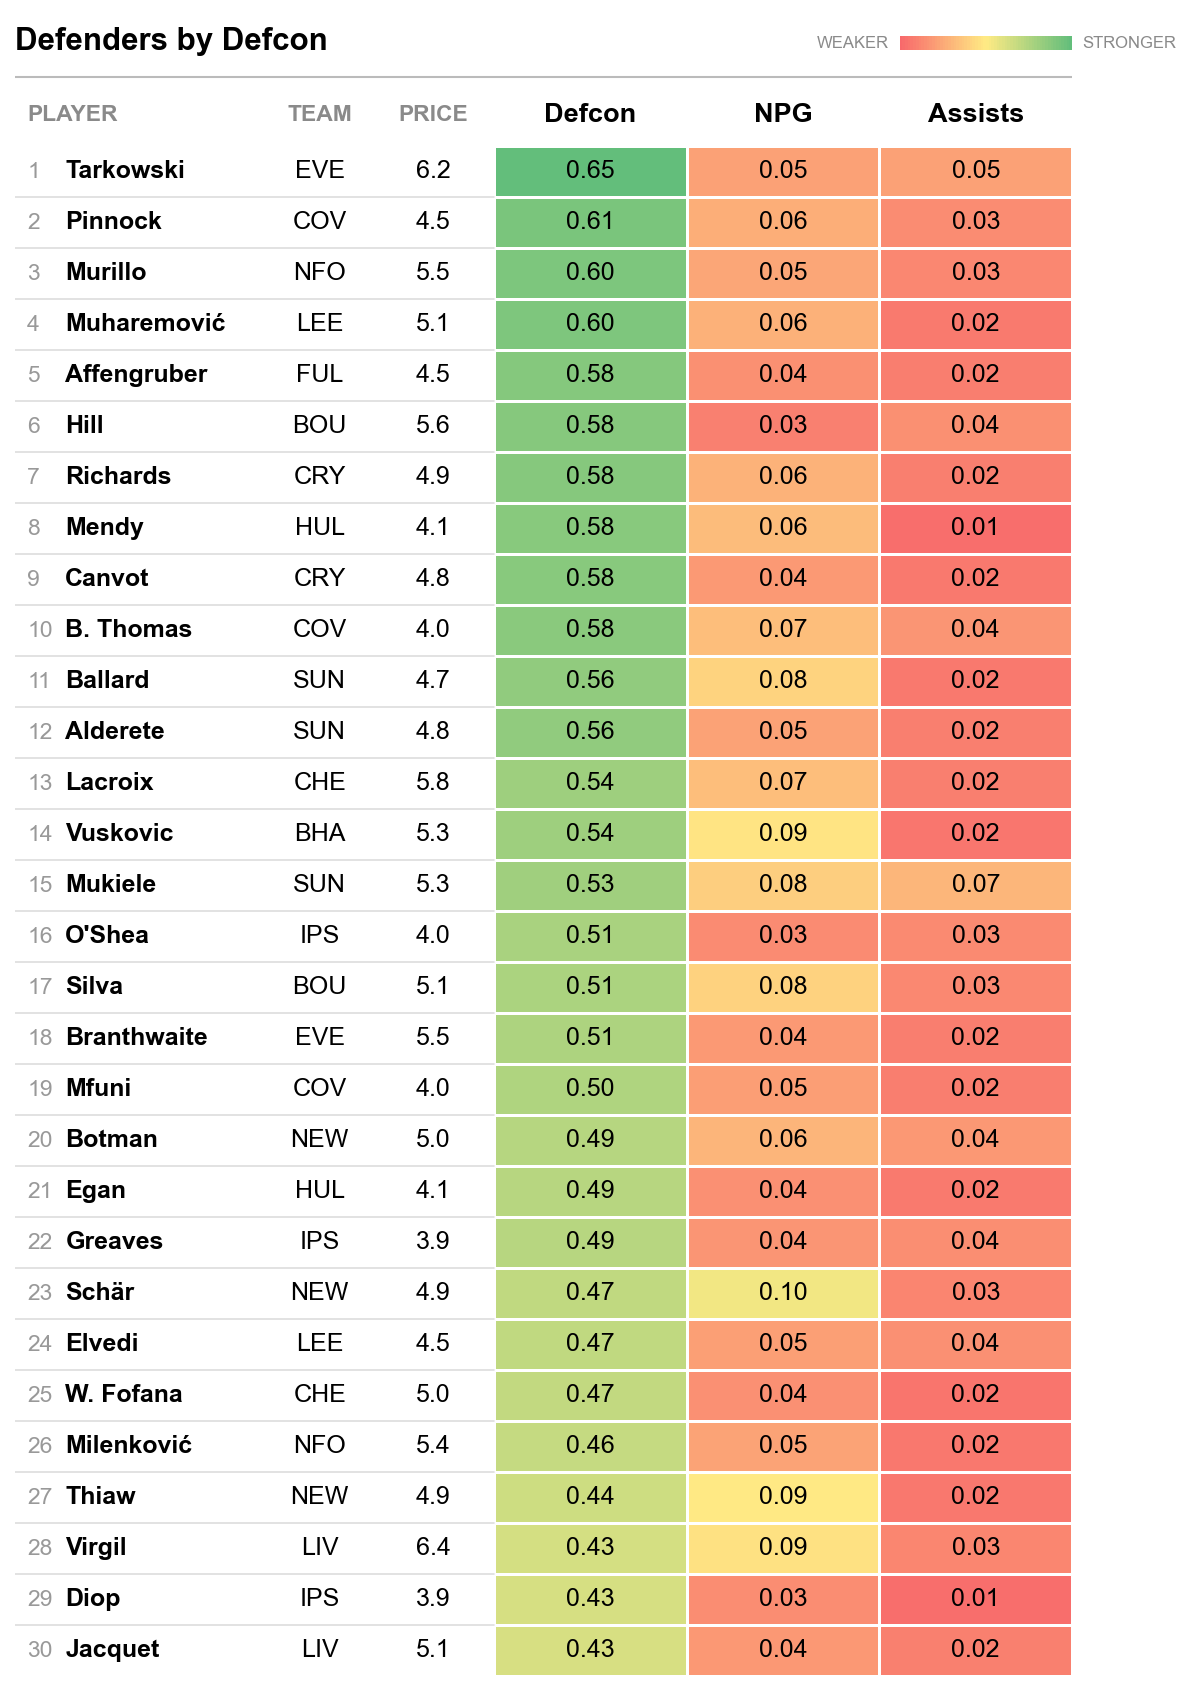
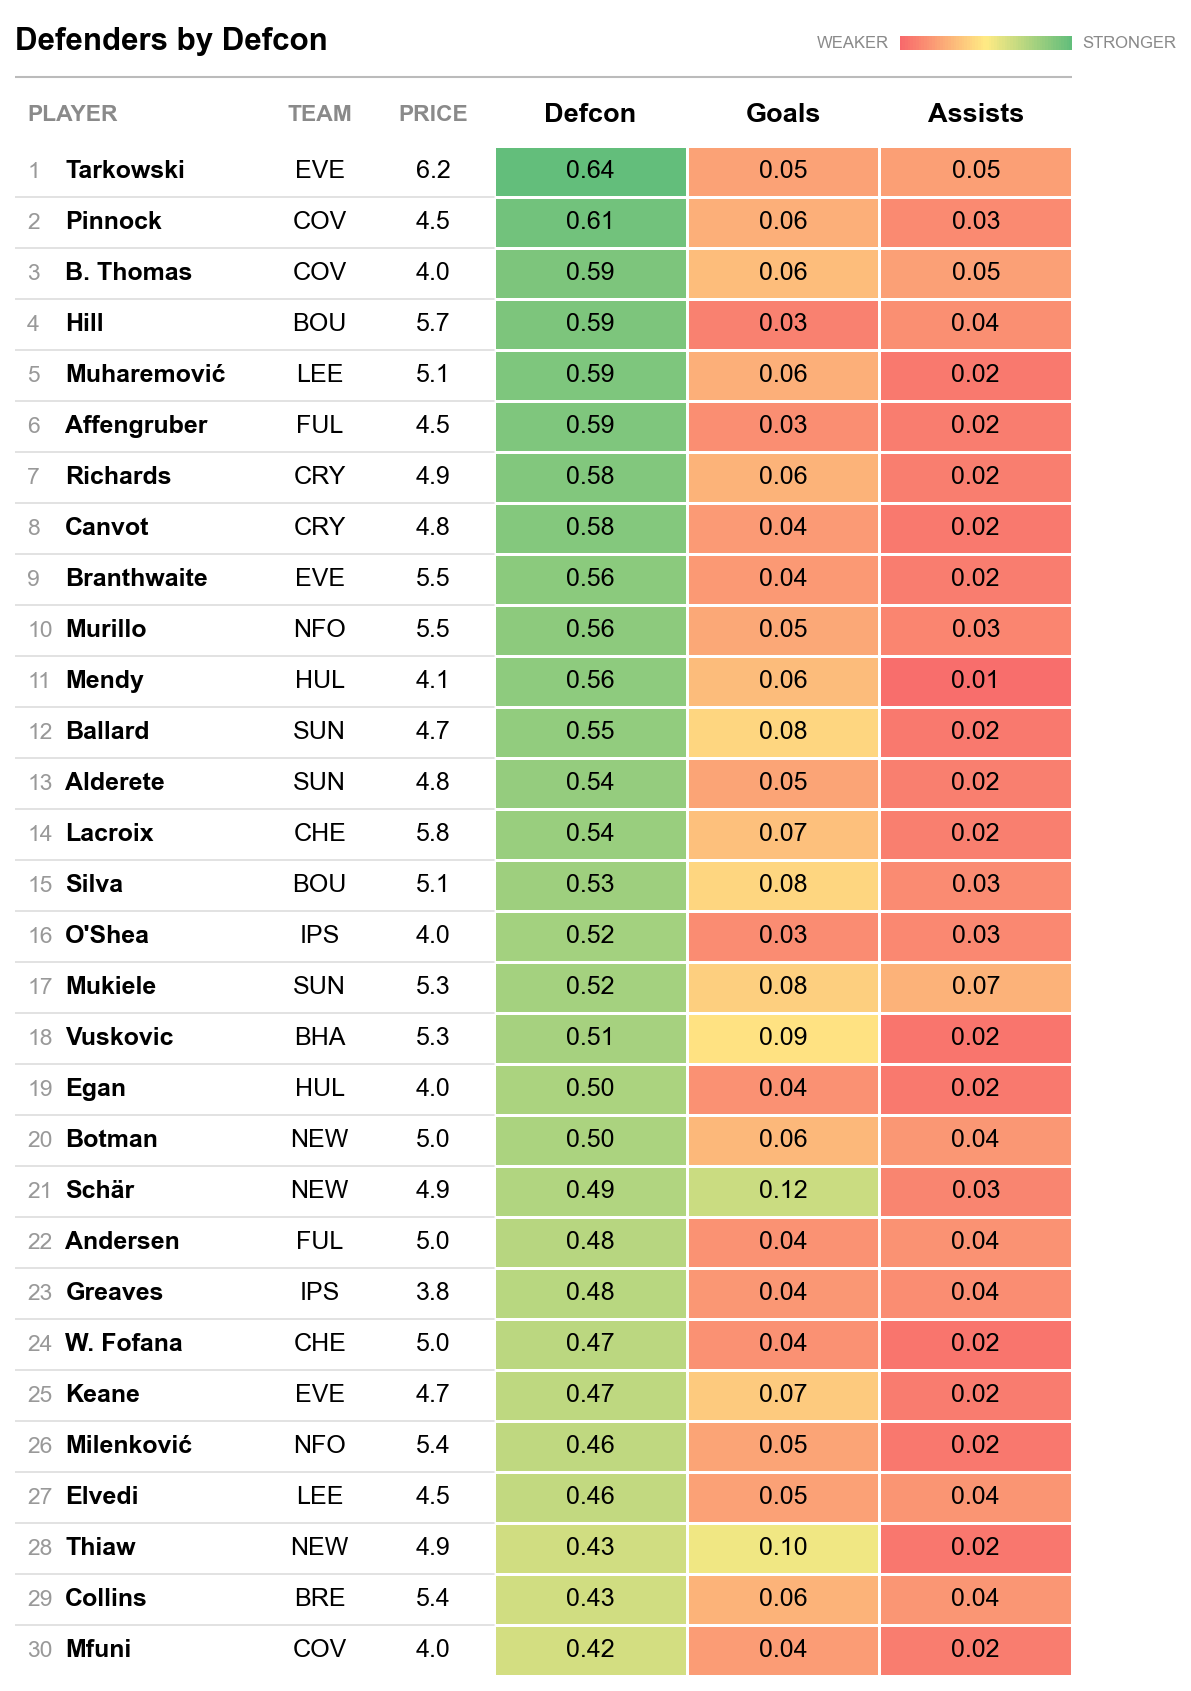
feat: show penalty-inclusive goals in the player ratings heatmaps

diff --git a/fpl_model/export_weekly_heatmaps.py b/fpl_model/export_weekly_heatmaps.py
@@ -7,18 +7,22 @@ pipeline's CSV artifacts, grouped into one images/ subfolder per family.
 The charts split along the same line as the pipeline itself, so each
 orchestrator renders only what its own stages have just refreshed:
 
-  --part 1  (run_post_gameweek.py)   team ratings + player ratings
-  --part 2  (run_pre_deadline.py)    predicted points + next gameweek
+  --part 1  (run_post_gameweek.py)   team ratings
+  --part 2  (run_pre_deadline.py)    player ratings + predicted points + next gameweek
   --part all (default, standalone)   everything
+
+Player ratings are drawn in part 2 because their Goals include penalties, which need the week's penalty shares
+(penalty_share.csv, refreshed before part 2). Goals per 90 = NPG + share x team penalty attempts per 90 x conversion,
+taken from site_export.export_site_data.build_ratings, so the charts and the site's Player ratings page agree.
 
 Outputs:
   images/team_ratings/team_ratings_overall.png
   images/team_ratings/team_ratings_attack.png      (same table, sorted by attack)
   images/team_ratings/team_ratings_defense.png     (same table, best defense first)
-  images/player_ratings/player_ratings_all_npg_assists.png
-  images/player_ratings/player_ratings_mid_npg_assists.png
-  images/player_ratings/player_ratings_fwd_npg_assists.png
-  images/player_ratings/player_ratings_def_npg_assists.png
+  images/player_ratings/player_ratings_all_goals_assists.png
+  images/player_ratings/player_ratings_mid_goals_assists.png
+  images/player_ratings/player_ratings_fwd_goals_assists.png
+  images/player_ratings/player_ratings_def_goals_assists.png
   images/player_ratings/player_ratings_def_defcon.png
   images/player_ratings/player_ratings_mid_defcon.png
   images/predicted_points/predicted_points_all.png
@@ -95,8 +99,8 @@ GAMEWEEK_HORIZON = 5
 
 # Which input files each part needs (checked up front in main()).
 _PART_INPUTS = {
-    1: (_TEAM_RATINGS, _PLAYER_RATINGS, _MINUTES, _PLAYERS_CURRENT),
-    2: (_PREDICTED_PTS, _SIM_FEATURES, _PENALTIES, _MINUTES, _PLAYERS_CURRENT),
+    1: (_TEAM_RATINGS,),
+    2: (_PLAYER_RATINGS, _PREDICTED_PTS, _SIM_FEATURES, _PENALTIES, _MINUTES, _PLAYERS_CURRENT),
 }
 
 
@@ -524,24 +528,27 @@ def player_ratings_charts() -> None:
     active = _active_players()
     df = df[df[["Player", "Team"]].apply(tuple, axis=1).isin(active)].copy()
     df["Defcon"] = pd.to_numeric(df["Defcon"], errors="coerce").fillna(0.0)
-    df["NPG+Assists"] = df["NPG"] + df["Assists"]
+    # Goals per 90 including penalties, exactly as the site's Player ratings page computes it (module docstring).
+    from fpl_model.site_export.export_site_data import build_ratings
+    site = build_ratings()["players"]
+    goals = {(p["name"], p["team"]): p["npg"] + p["share"] * p["team_att90"] * p["conversion"] for p in site}
+    df["Goals"] = [goals.get(k) for k in zip(df["Player"], df["Team"])]
+    missing = df["Goals"].isna()
+    if missing.any():
+        raise ValueError(f"{int(missing.sum())} rated players have no site rating, e.g. "
+                         f"{df.loc[missing, 'Player'].head(3).tolist()}")
+    df["G+A"] = df["Goals"] + df["Assists"]
 
     # (sort_col, pos_filter, filename, display_cols)
     specs = [
-        # NPG+Assists views
-        ("NPG+Assists", None, "player_ratings/player_ratings_all_npg_assists.png",
-         ["NPG", "Assists", "NPG+Assists"]),
-        ("NPG+Assists", "M",  "player_ratings/player_ratings_mid_npg_assists.png",
-         ["NPG", "Assists", "NPG+Assists"]),
-        ("NPG+Assists", "F",  "player_ratings/player_ratings_fwd_npg_assists.png",
-         ["NPG", "Assists", "NPG+Assists"]),
-        ("NPG+Assists", "D",  "player_ratings/player_ratings_def_npg_assists.png",
-         ["NPG", "Assists", "NPG+Assists"]),
+        # G+A views
+        ("G+A",    None, "player_ratings/player_ratings_all_goals_assists.png", ["Goals", "Assists", "G+A"]),
+        ("G+A",    "M",  "player_ratings/player_ratings_mid_goals_assists.png", ["Goals", "Assists", "G+A"]),
+        ("G+A",    "F",  "player_ratings/player_ratings_fwd_goals_assists.png", ["Goals", "Assists", "G+A"]),
+        ("G+A",    "D",  "player_ratings/player_ratings_def_goals_assists.png", ["Goals", "Assists", "G+A"]),
         # Defcon views
-        ("Defcon",      "D",  "player_ratings/player_ratings_def_defcon.png",
-         ["Defcon", "NPG", "Assists"]),
-        ("Defcon",      "M",  "player_ratings/player_ratings_mid_defcon.png",
-         ["Defcon", "NPG", "Assists"]),
+        ("Defcon", "D",  "player_ratings/player_ratings_def_defcon.png", ["Defcon", "Goals", "Assists"]),
+        ("Defcon", "M",  "player_ratings/player_ratings_mid_defcon.png", ["Defcon", "Goals", "Assists"]),
     ]
     _POS_LABEL = {None: "All positions", "M": "Midfielders",
                   "F": "Forwards", "D": "Defenders"}
@@ -552,7 +559,7 @@ def player_ratings_charts() -> None:
             title = f"Player Ratings by {sort_col}"
             # Only the all-positions chart carries a subtitle; the
             # position-specific ones are self-explanatory from the title.
-            subtitle = ("Predicted non-penalty goals and assists in a "
+            subtitle = ("Predicted goals (penalties included) and assists in a "
                         "90 minute match vs the average opponent.")
         else:
             title = f"{_POS_LABEL[pos]} by {sort_col}"
@@ -773,8 +780,8 @@ def main() -> int:
 
     if 1 in parts:
         team_ratings_chart()
-        player_ratings_charts()
     if 2 in parts:
+        player_ratings_charts()   # part 2: Goals need the week's penalty shares
         predicted_points_charts()
         next_gameweek_charts()
     print(f"\nDone — {_OUT_DIR}/")

diff --git a/save_gameweek_outputs.py b/save_gameweek_outputs.py
@@ -239,7 +239,8 @@ def save_snapshot(data=DATA, output=SNAPSHOTS, season=CURRENT_SEASON, gameweek=N
         target.parent.mkdir(exist_ok=True)
         frame.to_csv(target, index=False, encoding="utf-8-sig")
     if include_images:
-        families = ["team_ratings", "player_ratings"] + (["predicted_points", "next_gameweek"] if part == "all" else [])
+        # Player ratings images are drawn in part 2 (their Goals need the week's penalty shares).
+        families = ["team_ratings"] + (["player_ratings", "predicted_points", "next_gameweek"] if part == "all" else [])
         for family in families:
             for source in (ROOT/"images"/family).glob("*.png"):
                 image_hash = digest(source)

diff --git a/run_pre_deadline.py b/run_pre_deadline.py
@@ -105,7 +105,7 @@ STAGES = [
         "summary_files": ["predicted_points.csv"],
     },
     {
-        "label": "Heatmap exports (predicted points, next gameweek)",
+        "label": "Heatmap exports (player ratings, predicted points, next gameweek)",
         "script": SCRIPTS / "export_weekly_heatmaps.py",
         "args": ["--part", "2"],
         "summary_files": [],

diff --git a/run_post_gameweek.py b/run_post_gameweek.py
@@ -151,7 +151,7 @@ STAGES = [
         "summary_files": ["player_ratings.csv"],
     },
     {
-        "label": "Heatmap exports (team ratings, player ratings)",
+        "label": "Heatmap exports (team ratings)",
         "script": SCRIPTS / "export_weekly_heatmaps.py",
         "args": ["--part", "1"],
         "summary_files": [],
